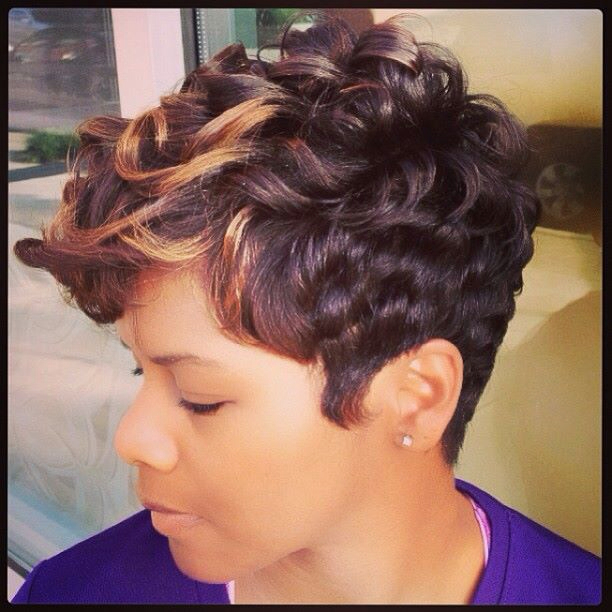
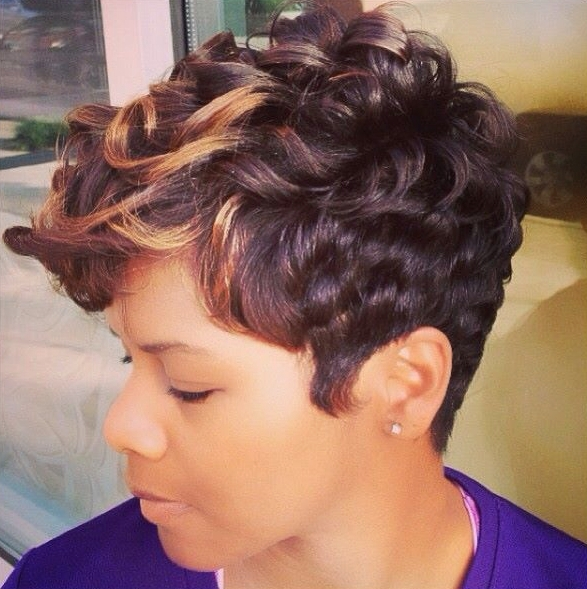
changed img_1

diff --git a/src/views/Gallery/index.js b/src/views/Gallery/index.js
@@ -11,10 +11,10 @@ class Gallery extends Component {
        <div id="gallery_wrapper">
         <div className="col_1">
           <h1>Check out our gallery!</h1>
-
+          <p>Stylist responsible for each look is credited under the photo.</p>
           <div className="responsive">
             <div className="gallery">
-                <img src={require('../../images/img_2.jpg')} alt="Style_2" style={{width:140, height:140}} />
+                <img src={require('../../images/img_9.jpg')} alt="Style_2" style={{width:140, height:140}} />
               <div className="desc">Stylist: Aida</div>
             </div>
           </div>

diff --git a/src/views/Gallery/gallery.css b/src/views/Gallery/gallery.css
@@ -28,7 +28,8 @@ div.gallery img {
 div.desc {
     padding: 15px;
     text-align: center;
-    font-size: 14px;
+    font-size: 13px;
+    font-weight: bold;
 }
 
 
